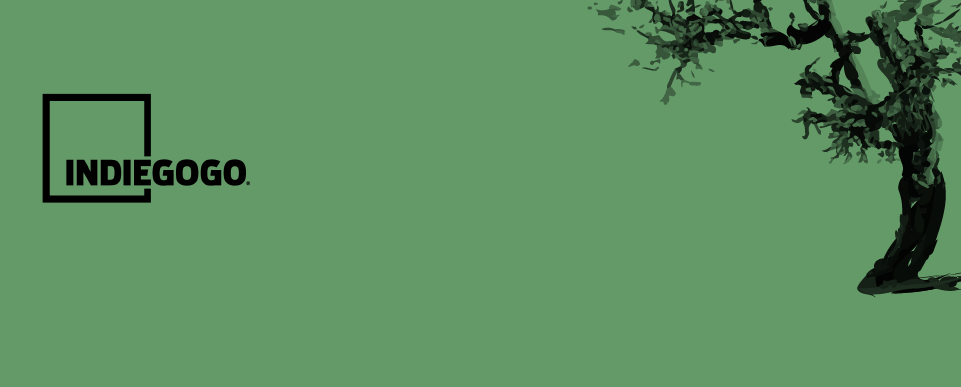
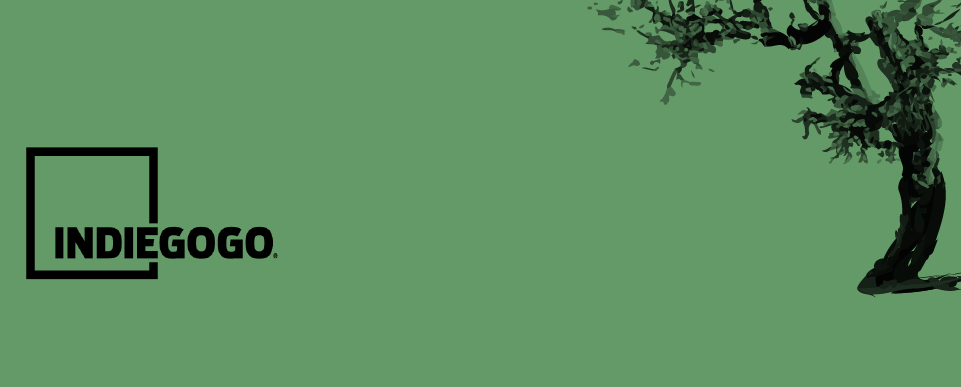
finished sprint

Changed region(s): [[0.0, 0.2171, 0.281, 0.7442]]

diff --git a/index.html b/index.html
@@ -46,38 +46,49 @@
 <body>
     <div class="container">
       <div class="navbar-wrapper">
-         <div class="container">
+       <div class="container">
 
-            <nav class="navbar navbar-inverse navbar-static-top">
-               <div class="container">
-                  <div class="navbar-header">
-                     <button type="button" class="navbar-toggle collapsed" data-toggle="collapse" data-target="#navbar" aria-expanded="false" aria-controls="navbar">
-                        <span class="sr-only">Toggle navigation</span>
-                        <span class="icon-bar"></span>
-                        <span class="icon-bar"></span>
-                        <span class="icon-bar"></span>
-                    </button>
-                </div>
-                <div id="navbar" class="navbar-collapse collapse">
-                 <ul class="nav navbar-nav">
-                    <li><a class="home" ui-sref="home">home</a></li>
-                    <li><a class="about" ui-sref="about">about</a></li>
-                    <li><a class="mission" ui-sref="mission">mission</a></li>               
-                    <li><a class="galleries" ui-sref="gallery">gallery</a></li>
-                    <li><a class="contact" ui-sref="contact">contact</a></li>
-                    <li><a class="support" ui-sref="support">support</a></li>
-                    <li><a href="https://www.facebook.com/pages/Nakba-Museum-Project-of-Memory-and-Hope/360510197447516" class="fb">facebook</a></li>
-                </ul>
-            </div>
-        </div>
-    </nav>
+        <nav class="navbar navbar-inverse navbar-static-top">
+         <div class="container">
+          <div class="navbar-header">
+           <button type="button" class="navbar-toggle collapsed" data-toggle="collapse" data-target="#navbar" aria-expanded="false" aria-controls="navbar">
+            <span class="sr-only">Toggle navigation</span>
+            <span class="icon-bar"></span>
+            <span class="icon-bar"></span>
+            <span class="icon-bar"></span>
+        </button>
+    </div>
+    <div id="navbar" class="navbar-collapse collapse">
+       <ul class="nav navbar-nav">
+        <li><a class="home" ui-sref="home">home</a></li>
+        <li><a class="about" ui-sref="about">about</a></li>
+        <li><a class="mission" ui-sref="mission">mission</a></li>               
+        <li><a class="galleries" ui-sref="gallery">gallery</a></li>
+        <li><a class="contact" ui-sref="contact">contact</a></li>
+        <li><a class="support" ui-sref="support">support</a></li>
+        <li><a href="https://www.facebook.com/pages/Nakba-Museum-Project-of-Memory-and-Hope/360510197447516" class="fb">facebook</a></li>
+    </ul>
+</div>
+</div>
+</nav>
 </div>
 </div>
 <!-- Carousel -->
 <div id="carouselMain" class="owl-carousel container">
-    <div class="item"><img src="Assets/Images/main-01.png" alt="Nakba main image with a person leaving behind an old tree"></div>
-    <div class="item"><img src="Assets/Images/main-02.png" alt="Nakba main image with a person leaving behind an old tree"></div>
-    <div class="item"><img src="Assets/Images/main-03.png" alt="Nakba main image with a person leaving behind an old tree"></div>
+    <div class="item">
+        <div class="firstImage"><b>The Nakba Museum Project of <br />Memory and Hope</b></div>
+        <img src="Assets/Images/main-01.png" alt="Nakba main image with a person leaving behind an old tree">
+    </div>
+
+    <div class="item">
+        <div class="secondImage">Indiegogo Project Launched! <br /><b><a class="btn btn-primary" href="https://www.indiegogo.com/projects/nakba-museum-project-of-memory-and-hope">Click Here</a></b> to help support us!</div>
+        <img src="Assets/Images/main-02.png" alt="Indiegogo logo.">
+    </div>
+
+    <div class="item">
+        <div class="thirdImage"><b>Online Gallery <br /> Under Construction.</b></div>
+        <img src="Assets/Images/main-03.png" alt="Gallery splash page.">
+    </div>
 </div>
 
     <!-- Marketing messaging and featurettes
@@ -114,9 +125,9 @@
   </div>
   <div class="col-md-7">
     <h2 class="featurette-heading"><b><a href="http://nakbamuseumproject.us10.list-manage.com/subscribe?u=50cf63cf9017fd70c96d135c6&id=879380e7dc">Sign up for our Newsletter!</a></b> <span class="text-muted">Keep up to date on upcoming gallery showings!</span></h2>
-      <p class="lead">Here is the <a href="http://us10.campaign-archive2.com/?u=50cf63cf9017fd70c96d135c6&id=ed7f80d444">latest newsletter</a>, as well as the links to social media. Thank you for your continuous support. Your contributions of time, money, and—most importantly—ideas will affect the lives of millions of Palestinians living in refugee camps. Nakba Museum Project is excited to announce that it was offered a temporary space for our opening exhibit this coming summer in downtown Washington DC. </p>
-  </div></div>
-  <div class="row">
+    <p class="lead">Here is the <a href="http://us10.campaign-archive2.com/?u=50cf63cf9017fd70c96d135c6&id=ed7f80d444">latest newsletter</a>, as well as the links to social media. Your contributions of time, money, and—most importantly—ideas will affect the lives of millions of Palestinians living in refugee camps.</p>
+</div></div>
+<div class="row">
     <div class="col-md-12">
       <p class="lead">The Nakba Museum Project of Memory and Hope aims to finally tell the Palestinian refugee story, one that has been silenced or ignored for too long. By creating a virtual and physical space to feature these stories, using arts, films and oral history. We launched our project in June 2014 and have received enormous encouragement and engagment. Now we need your support!</p>         
       <p><a class="btn btn-default about" href="https://www.indiegogo.com/projects/nakba-museum-project-of-memory-and-hope" role="button">Indiegogo Site</a></p>

diff --git a/Style/site.css b/Style/site.css
@@ -10,7 +10,7 @@ body {
 -------------------------------------------------- */
 /* NAVBAR Style Scheme */
 .navbar {
-  background: rgba(204, 204, 204, 0.5); }
+  background: rgba(204, 204, 204, 0.8); }
 
 .navbar, .navbar-toggle {
   border: none; }
@@ -23,6 +23,9 @@ body {
   font-variant: small-caps;
   font-weight: 800;
   font-size: 1.5em; }
+
+.navbar-inverse, .navbar-collapse {
+  border: none; }
 
 /* Special class on .container surrounding .navbar, used for positioning it into place. */
 .navbar-wrapper {
@@ -52,6 +55,16 @@ body {
 
 #carouselMain {
   margin-bottom: 2.5em; }
+
+.firstImage, .secondImage, .thirdImage {
+  position: absolute;
+  text-align: center;
+  font-family: "Merriweather", serif;
+  margin-left: 33%;
+  top: 45%;
+  font-size: 1.5em;
+  color: #222;
+  line-height: 1.5em; }
 
 /* Template CONTENT
 -------------------------------------------------- */

diff --git a/Style/site.scss b/Style/site.scss
@@ -13,7 +13,7 @@ $sandyBrown: rgba(147,115,81,.50);
 $greenAccent: #639A68;
 $purple: #aa8395;
 $blue: #8398aa;
-$transparentWhite: rgba(204,204,204,.5);
+$transparentWhite: rgba(204,204,204,.8);
 $darkGray: #333;
 
 /* CUSTOMIZE THE NAVBAR
@@ -34,6 +34,9 @@ $darkGray: #333;
   font-variant: small-caps;
   font-weight: 800;
   font-size: 1.5em;
+}
+.navbar-inverse, .navbar-collapse {
+  border: none;
 }
 
 
@@ -68,6 +71,17 @@ $darkGray: #333;
 
 #carouselMain {
   margin-bottom: 2.5em;
+}
+
+.firstImage, .secondImage, .thirdImage {
+  position: absolute;
+  text-align: center;
+  font-family: "Merriweather", serif;
+  margin-left: 33%;
+  top: 45%;
+  font-size: 1.5em;
+  color: #222;
+  line-height: 1.5em;
 }
 
 /* Template CONTENT
